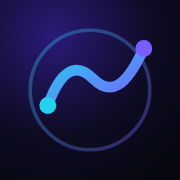
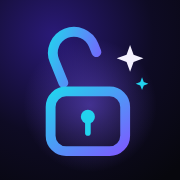
Rebrand to Routini (Routine + Houdini)
- New name in the app, manifest, notifications, Shortcut messages, backups and docs
- New icon: an opened padlock with a sparkle; onboarding logo animates the lock springing open
- Welcome copy: "Ontsnap aan oude patronen", with a Routini wordmark
- Storage and Redis keys keep their old names so existing data stays intact

Claude-Session: https://claude.ai/code/session_01EVvhUygApWAQ1CkjUeEsAW

diff --git a/js/app.js b/js/app.js
@@ -1,4 +1,4 @@
-/* Rewired – main app: onboarding, tabs, views, sheets */
+/* Routini – main app: onboarding, tabs, views, sheets */
 (function () {
   const { $, $$, esc, haptic, toast, confetti, countUp, staggerIn, sheet, fullscreen, fmtDur, relTime, checkIcon } = FX;
   const S = () => Store.s;
@@ -260,7 +260,7 @@
       <header class="page-head" data-anim><div><div class="eyebrow">Jij</div><h1>Profiel</h1></div></header>
       <div class="card" data-anim style="text-align:center;padding:26px 18px">
         <div style="width:84px;height:84px;border-radius:50%;margin:0 auto 12px;background:var(--grad);display:grid;place-items:center;font-family:var(--display);font-size:36px;font-weight:700" data-avatar>${esc((s.name || "R")[0].toUpperCase())}</div>
-        <h2 style="font-size:24px">${esc(s.name || "Rewired")}</h2>
+        <h2 style="font-size:24px">${esc(s.name || "Routini")}</h2>
         <p class="small muted" style="margin-top:4px">Gestart op ${new Date(s.firstStart || s.startDate).toLocaleDateString("nl-NL", { day: "numeric", month: "long", year: "numeric" })}</p>
         <div class="grid3" style="margin-top:18px">
           <div><div style="font-family:var(--display);font-size:22px;font-weight:700">${Store.streakDays()}</div><div class="small muted">Streak</div></div>
@@ -274,7 +274,7 @@
 
       ${!standalone ? `<div class="card" data-anim style="margin-top:12px;border-color:rgba(34,211,238,.4)">
         <div style="font-weight:600">📲 Installeer op je iPhone</div>
-        <p class="small muted" style="margin-top:6px">Open in Safari, tik op <b style="color:#fff">Deel</b> <span style="display:inline-block;vertical-align:-3px">⬆</span> en kies <b style="color:#fff">Zet op beginscherm</b>. Dan werkt Rewired als een echte app, fullscreen en offline.</p>
+        <p class="small muted" style="margin-top:6px">Open in Safari, tik op <b style="color:#fff">Deel</b> <span style="display:inline-block;vertical-align:-3px">⬆</span> en kies <b style="color:#fff">Zet op beginscherm</b>. Dan werkt Routini als een echte app, fullscreen en offline.</p>
       </div>` : ""}
 
       <div class="section-title" data-anim><h3>Meldingen</h3></div>
@@ -304,7 +304,7 @@
         <button class="list-item" style="width:100%;text-align:left" data-action="wipe"><span class="li-ico">🗑</span><span class="li-body"><div class="li-title danger-text">Alles wissen op deze telefoon</div><div class="li-sub">Begin opnieuw${Sync.user ? " · je wordt uitgelogd, cloud-kopie blijft" : ""}</div></span></button>
       </div>
 
-      <p class="small muted" style="text-align:center;margin-top:26px;line-height:1.6">Al je gegevens blijven privé op dit apparaat.<br>Rewired is een zelfhulp-tool en vervangt geen professionele hulp.<br>Hulp nodig? Bel <b>113</b> (0800-0113) bij crisis.</p>
+      <p class="small muted" style="text-align:center;margin-top:26px;line-height:1.6">Al je gegevens blijven privé op dit apparaat.<br>Routini is een zelfhulp-tool en vervangt geen professionele hulp.<br>Hulp nodig? Bel <b>113</b> (0800-0113) bij crisis.</p>
     `;
   }
 
@@ -684,9 +684,9 @@
 
   async function exportData() {
     const json = Store.export();
-    const file = new File([json], `rewired-backup-${Store.dayKey()}.json`, { type: "application/json" });
+    const file = new File([json], `routini-backup-${Store.dayKey()}.json`, { type: "application/json" });
     try {
-      if (navigator.canShare && navigator.canShare({ files: [file] })) { await navigator.share({ files: [file], title: "Rewired back-up" }); return; }
+      if (navigator.canShare && navigator.canShare({ files: [file] })) { await navigator.share({ files: [file], title: "Routini back-up" }); return; }
     } catch (e) { if (e.name === "AbortError") return; }
     const a = document.createElement("a");
     a.href = URL.createObjectURL(file); a.download = file.name; a.click();
@@ -695,7 +695,7 @@
 
   async function shareProgress() {
     const d = Store.streakDays();
-    const text = `Ik ben ${d} ${d === 1 ? "dag" : "dagen"} vrij en mijn brein is ${Store.rewirePct().toFixed(0)}% herbedraad met Rewired. 🧠💪`;
+    const text = `Ik ben ${d} ${d === 1 ? "dag" : "dagen"} vrij en mijn brein is ${Store.rewirePct().toFixed(0)}% herbedraad met Routini. 🧠💪`;
     try { if (navigator.share) { await navigator.share({ text }); return; } } catch { return; }
     try { await navigator.clipboard.writeText(text); toast("Gekopieerd naar klembord"); } catch { toast(text); }
   }
@@ -767,15 +767,19 @@
     const logo = `<svg class="big-logo" viewBox="0 0 120 120" data-logo>
       <defs><linearGradient id="lg" x1="0" y1="0" x2="1" y2="1"><stop offset="0" stop-color="#22d3ee"/><stop offset="1" stop-color="#7c5cff"/></linearGradient></defs>
       <circle cx="60" cy="60" r="54" fill="none" stroke="url(#lg)" stroke-width="3" opacity=".35"/>
-      <path data-path d="M28 70c8-22 18-30 30-18s22 6 34-20" fill="none" stroke="url(#lg)" stroke-width="7" stroke-linecap="round"/>
-      <circle cx="28" cy="70" r="6" fill="#22d3ee"/><circle cx="92" cy="32" r="6" fill="#7c5cff"/>
+      <path data-shackle d="M47 58V43a13 13 0 0 1 26 0v15" fill="none" stroke="url(#lg)" stroke-width="6.5" stroke-linecap="round"/>
+      <rect x="34" y="57" width="52" height="40" rx="11" fill="#0e0b24" stroke="url(#lg)" stroke-width="6.5"/>
+      <circle cx="60" cy="73" r="4.6" fill="#22d3ee"/><path d="M60 76v8" stroke="#22d3ee" stroke-width="3.6" stroke-linecap="round"/>
+      <path data-spark d="M88 22l2.4 6.6 6.6 2.4-6.6 2.4L88 40l-2.4-6.6L79 31l6.6-2.4z" fill="#f4f1ff"/>
+      <path data-spark d="M97 46l1.2 3.3 3.3 1.2-3.3 1.2L97 55l-1.2-3.3-3.3-1.2 3.3-1.2z" fill="#22d3ee"/>
     </svg>`;
 
     const steps = [
       {
         html: () => `<div style="text-align:center;padding-top:30px">${logo}
-          <h1>Herprogrammeer<br><span class="grad-text">je brein.</span></h1>
-          <p class="lead">Gebaseerd op neurowetenschap. Streak tracking, lichttherapie, ademwerk en een dagelijkse dopamine reset. Alles 100% privé op je iPhone.</p>
+          <div class="wordmark">Routini</div>
+          <h1>Ontsnap aan<br><span class="grad-text">oude patronen.</span></h1>
+          <p class="lead">Kom los van wat je niet meer wilt en bouw routines die blijven. Streak, gewoontes met een als-dan-plan, noodmodus, ademwerk en lichttherapie. Alles privé op je iPhone.</p>
           <button class="link" data-have-account style="margin-top:22px;color:var(--accent2);font-weight:600;font-size:15px">Ik heb al een account →</button></div>`,
         btn: "Begin mijn reis",
         mount: () => {
@@ -786,9 +790,19 @@
               gsap.to(el, { opacity: 0, duration: 0.5, onComplete: () => { el.remove(); boot(); } });
             } });
           });
-          const p = $("[data-path]", body), len = p.getTotalLength();
-          gsap.fromTo(p, { strokeDasharray: len, strokeDashoffset: len }, { strokeDashoffset: 0, duration: 1.6, ease: "power2.inOut", delay: 0.3 });
-          gsap.from("[data-logo]", { scale: 0.6, rotation: -20, duration: 1.4, ease: "elastic.out(1,0.6)" });
+          // the escape: the lock appears, then the shackle springs open and a sparkle pops
+          const shackle = $("[data-shackle]", body), sparks = $$("[data-spark]", body);
+          if (FX.calm()) {
+            gsap.set(shackle, { rotation: -22, y: -6, svgOrigin: "47 58" });
+            gsap.from("[data-logo]", { opacity: 0, duration: 0.6 });
+          } else {
+            gsap.timeline()
+              .from("[data-logo]", { scale: 0.6, opacity: 0, duration: 0.9, ease: "back.out(1.8)" })
+              .to(shackle, { y: -6, duration: 0.25, ease: "power2.out", svgOrigin: "47 58" }, "+=0.35")
+              .to(shackle, { rotation: -22, duration: 0.7, ease: "elastic.out(1,0.45)", svgOrigin: "47 58" }, "<0.1")
+              .from(sparks, { scale: 0, rotation: -90, transformOrigin: "50% 50%", duration: 0.6, stagger: 0.12, ease: "back.out(3)" }, "<0.15")
+              .from(".wordmark", { y: 10, opacity: 0, duration: 0.5, ease: "power3.out" }, "<");
+          }
         }
       },
       {
@@ -838,7 +852,7 @@
               ${[["🔥", "Dagelijkse streak & brein-meter"], ["💡", "Lichttherapie bij hoge drang"], ["🌬", "Ademwerk & meditatie"], ["⚡", "Dopamine Reset routine"], ["🚨", "Noodmodus met 1 tik"]].map(([e, t]) => `<div class="row" style="padding:10px 0"><span style="font-size:22px">${e}</span><span style="font-weight:500">${t}</span></div>`).join("")}
             </div></div>`;
         },
-        btn: "Start Rewired",
+        btn: "Start Routini",
         mount: () => {
           gsap.from("[data-date]", { scale: 0.5, opacity: 0, duration: 1, ease: "elastic.out(1,0.6)", delay: 0.3 });
           gsap.from("[data-plan] .row", { x: -30, opacity: 0, stagger: 0.1, delay: 0.6, duration: 0.6, ease: "power3.out" });

diff --git a/api/track.js b/api/track.js
@@ -2,8 +2,8 @@
 
    GET  /api/track?t=<token>&app=instagram   ← called by the Shortcut when the app opens.
         Logs the open and answers with a short text the Shortcut shows as a notification.
-   GET  /api/track?t=<token>                 ← the Rewired app fetches the events (last 15 days).
-   POST /api/track { t, tz, apps, perOpen }  ← the Rewired app stores tz + per-app limits.
+   GET  /api/track?t=<token>                 ← the Routini app fetches the events (last 15 days).
+   POST /api/track { t, tz, apps, perOpen }  ← the Routini app stores tz + per-app limits.
    DELETE /api/track { t }                   ← remove everything for this token.
 
    The token is a long random secret created in the app; it is the only "login" for these endpoints. */
@@ -59,14 +59,14 @@ module.exports = async (req, res) => {
 
     if (req.method !== "GET") return json(res, 405, { error: "method" });
     const t = url.searchParams.get("t");
-    if (!tokOk(t)) return text(res, 401, "Rewired: ongeldige link. Kopieer hem opnieuw uit de app.");
+    if (!tokOk(t)) return text(res, 401, "Routini: ongeldige link. Kopieer hem opnieuw uit de app.");
     const h = hash(t);
     const raw = await redis("GET", "track:cfg:" + h);
-    if (!raw) return text(res, 404, "Rewired: tracking is niet (meer) ingesteld. Open de app.");
+    if (!raw) return text(res, 404, "Routini: tracking is niet (meer) ingesteld. Open de app.");
     const cfg = JSON.parse(raw);
     const app = (url.searchParams.get("app") || "").toLowerCase();
 
-    // The Rewired app pulls its events
+    // The Routini app pulls its events
     if (!app) {
       const since = Date.now() - 15 * DAY;
       const ev = ((await redis("LRANGE", "track:ev:" + h, 0, -1)) || []).map(x => JSON.parse(x)).filter(e => e.ts >= since);
@@ -74,8 +74,8 @@ module.exports = async (req, res) => {
     }
 
     // Called from the Shortcut
-    if (!appOk(app)) return text(res, 400, "Rewired: onbekende app-naam in de link.");
-    if (!(await allow("trk:" + h, 800, 86400))) return text(res, 429, "Rewired: te veel meldingen vandaag.");
+    if (!appOk(app)) return text(res, 400, "Routini: onbekende app-naam in de link.");
+    if (!(await allow("trk:" + h, 800, 86400))) return text(res, 429, "Routini: te veel meldingen vandaag.");
     const now = Date.now();
     await redis("RPUSH", "track:ev:" + h, JSON.stringify({ ts: now, app }));
     await redis("LTRIM", "track:ev:" + h, -KEEP, -1);

diff --git a/js/push.js b/js/push.js
@@ -180,10 +180,10 @@
 
   function cardHtml() {
     const st = status(), p = prefs();
-    if (st === "install") return `<div class="card"><div style="font-weight:600">🔔 Meldingen</div><p class="small muted" style="margin-top:6px">Op de iPhone werken meldingen alleen als Rewired op je <b style="color:#fff">beginscherm</b> staat. Open in Safari → <b style="color:#fff">Deel</b> → <b style="color:#fff">Zet op beginscherm</b>, en open de app daarna via het icoon.</p></div>`;
+    if (st === "install") return `<div class="card"><div style="font-weight:600">🔔 Meldingen</div><p class="small muted" style="margin-top:6px">Op de iPhone werken meldingen alleen als Routini op je <b style="color:#fff">beginscherm</b> staat. Open in Safari → <b style="color:#fff">Deel</b> → <b style="color:#fff">Zet op beginscherm</b>, en open de app daarna via het icoon.</p></div>`;
     if (st === "ios-old") return `<div class="card"><div style="font-weight:600">🔔 Meldingen</div><p class="small muted" style="margin-top:6px">Je iOS-versie ondersteunt geen webmeldingen. Update naar iOS 16.4 of nieuwer.</p></div>`;
     if (st === "unsupported") return `<div class="card"><div style="font-weight:600">🔔 Meldingen</div><p class="small muted" style="margin-top:6px">Deze browser ondersteunt geen pushmeldingen.</p></div>`;
-    if (st === "denied") return `<div class="card"><div style="font-weight:600">🔔 Meldingen geblokkeerd</div><p class="small muted" style="margin-top:6px">Zet ze aan via iPhone <b style="color:#fff">Instellingen → Meldingen → Rewired</b> en kom dan hier terug.</p></div>`;
+    if (st === "denied") return `<div class="card"><div style="font-weight:600">🔔 Meldingen geblokkeerd</div><p class="small muted" style="margin-top:6px">Zet ze aan via iPhone <b style="color:#fff">Instellingen → Meldingen → Routini</b> en kom dan hier terug.</p></div>`;
 
     const on = st === "on";
     return `

diff --git a/js/data.js b/js/data.js
@@ -9,7 +9,7 @@ window.DATA = {
     { d: 14, t: "2 weken", s: "Nieuwe routine", e: "🧠" },
     { d: 30, t: "30 dagen", s: "Een maand vrij", e: "🛡" },
     { d: 60, t: "60 dagen", s: "Diepe verandering", e: "💎" },
-    { d: 90, t: "90 dagen", s: "Rewired", e: "👑" },
+    { d: 90, t: "90 dagen", s: "Ontsnapt", e: "👑" },
     { d: 180, t: "180 dagen", s: "Halfjaar", e: "🚀" },
     { d: 365, t: "1 jaar", s: "Legende", e: "🏆" }
   ],
@@ -51,16 +51,16 @@ window.DATA = {
     ["Wie anderen overwint is sterk. Wie zichzelf overwint is machtig.", "Lao Tzu"],
     ["We lijden vaker in onze verbeelding dan in de werkelijkheid.", "Seneca"],
     ["Een drang is een golf. Je hoeft er niet op te surfen, alleen te wachten tot hij breekt.", "Urge surfing"],
-    ["Je hoeft niet perfect te zijn. Je moet alleen vandaag winnen.", "Rewired"],
+    ["Je hoeft niet perfect te zijn. Je moet alleen vandaag winnen.", "Routini"],
     ["Het brein verandert door wat je herhaalt.", "Neuroplasticiteit"],
     ["Succes is de som van kleine inspanningen, dag in dag uit herhaald.", "Robert Collier"],
     ["De pijn van discipline weegt minder dan de pijn van spijt.", "Jim Rohn"],
     ["Je bent niet je gedachten. Je bent degene die ze opmerkt.", "Mindfulness"],
-    ["Elke keer dat je nee zegt, wordt het pad makkelijker.", "Rewired"],
+    ["Elke keer dat je nee zegt, wordt het pad makkelijker.", "Routini"],
     ["Beheers jezelf, of iets anders zal jou beheersen.", "Stoïcijnse wijsheid"],
     ["Val zeven keer, sta acht keer op.", "Japans spreekwoord"],
     ["Wat je voedt groeit. Wat je verhongert sterft.", "Onbekend"],
-    ["Rust komt niet door de drang te volgen, maar door hem voorbij te laten gaan.", "Rewired"]
+    ["Rust komt niet door de drang te volgen, maar door hem voorbij te laten gaan.", "Routini"]
   ],
 
   lightModes: [

diff --git a/js/lessons2.js b/js/lessons2.js
@@ -160,7 +160,7 @@
 
     L("env-phone", "Omgeving", 3, "Maak je telefoon saai",
       `<p>Je telefoon is ontworpen om je aandacht vast te houden. Een paar instellingen maken hem een stuk minder verslavend:</p>
-<ul><li><b>Grijstinten</b> (Instellingen → Toegankelijkheid → Weergave → Kleurfilters): kleurloze apps zijn minder aantrekkelijk</li><li><b>Meldingen uit</b> voor alles behalve mensen</li><li><b>Beginscherm leeg:</b> alleen tools (kaart, agenda, Rewired), social media in een map op de laatste pagina</li><li><b>Focus-modus</b> 's avonds en tijdens werk</li><li><b>Uitloggen</b> na elk gebruik van social media</li></ul>`,
+<ul><li><b>Grijstinten</b> (Instellingen → Toegankelijkheid → Weergave → Kleurfilters): kleurloze apps zijn minder aantrekkelijk</li><li><b>Meldingen uit</b> voor alles behalve mensen</li><li><b>Beginscherm leeg:</b> alleen tools (kaart, agenda, Routini), social media in een map op de laatste pagina</li><li><b>Focus-modus</b> 's avonds en tijdens werk</li><li><b>Uitloggen</b> na elk gebruik van social media</li></ul>`,
       "Een saaie telefoon trekt minder. Kleur, meldingen en gemak zijn haakjes.",
       "Zet vandaag grijstinten aan en verplaats social media naar de laatste pagina.",
       Q("Welke instelling maakt apps direct minder aantrekkelijk?", ["Helderheid omhoog", "Grijstinten", "Geluid aan"], 1, "Kleur is een belangrijk haakje in app-ontwerp.")),

diff --git a/api/_lib.js b/api/_lib.js
@@ -50,7 +50,7 @@ function config() {
   if (!process.env.VAPID_PRIVATE_KEY) missing.push("VAPID_PRIVATE_KEY");
   if (!missing.length) {
     webpush.setVapidDetails(
-      process.env.VAPID_SUBJECT || "mailto:rewired@example.com",
+      process.env.VAPID_SUBJECT || "mailto:routini@example.com",
       process.env.VAPID_PUBLIC_KEY,
       process.env.VAPID_PRIVATE_KEY
     );
@@ -153,7 +153,7 @@ function message(id, rec, now = Date.now(), slotDay = null) {
       url: "./?open=home", tag: "night"
     };
   }
-  return { title: "Rewired", body: "Test gelukt! Je meldingen werken. 💪", url: "./", tag: "test" };
+  return { title: "Routini", body: "Test gelukt! Je meldingen werken. 💪", url: "./", tag: "test" };
 }
 
 async function send(rec, payload) {
@@ -219,7 +219,7 @@ async function report(e, route) {
   try {
     await fetch(t.url, {
       method: "POST", body, signal: AbortSignal.timeout(2000),
-      headers: { "Content-Type": "application/x-sentry-envelope", "X-Sentry-Auth": `Sentry sentry_version=7, sentry_key=${t.key}, sentry_client=rewired-api/1.0` }
+      headers: { "Content-Type": "application/x-sentry-envelope", "X-Sentry-Auth": `Sentry sentry_version=7, sentry_key=${t.key}, sentry_client=routini-api/1.0` }
     });
   } catch {}
 }

diff --git a/index.html b/index.html
@@ -3,13 +3,13 @@
 <head>
   <meta charset="utf-8">
   <meta name="viewport" content="width=device-width, initial-scale=1, maximum-scale=1, viewport-fit=cover">
-  <title>Rewired</title>
-  <meta name="description" content="Herprogrammeer je brein. Streak tracker, lichttherapie, ademhaling, meditatie en dopamine reset.">
+  <title>Routini</title>
+  <meta name="description" content="Routini: ontsnap aan oude patronen en bouw routines die blijven. Streak, gewoontes met als-dan-plan, noodmodus, ademhaling en lichttherapie.">
   <meta name="theme-color" content="#07070d">
   <meta name="apple-mobile-web-app-capable" content="yes">
   <meta name="mobile-web-app-capable" content="yes">
   <meta name="apple-mobile-web-app-status-bar-style" content="black-translucent">
-  <meta name="apple-mobile-web-app-title" content="Rewired">
+  <meta name="apple-mobile-web-app-title" content="Routini">
   <meta name="format-detection" content="telephone=no">
   <link rel="manifest" href="manifest.webmanifest">
   <link rel="icon" type="image/svg+xml" href="icons/icon.svg">

diff --git a/js/monitor.js b/js/monitor.js
@@ -3,7 +3,7 @@
    Only the error type, a scrubbed message, the stack (script file names + line numbers), app version and
    browser are sent: never journal text, names, habits or anything else from Store. At most 5 per session. */
 (function () {
-  const VERSION = "rewired-v13";
+  const VERSION = "routini-v14";
   let target = null, sent = 0;
   const on = () => !!(target && window.Store && Store.s.settings && Store.s.settings.errors === true);
 
@@ -11,7 +11,7 @@
     try {
       const u = new URL(dsn), project = u.pathname.replace(/\//g, "");
       if (!u.username || !/^\d+$/.test(project)) return null;
-      return { url: `${u.protocol}//${u.host}/api/${project}/envelope/?sentry_key=${u.username}&sentry_version=7&sentry_client=rewired-web/1.0`, dsn: `${u.protocol}//${u.username}@${u.host}/${project}` };
+      return { url: `${u.protocol}//${u.host}/api/${project}/envelope/?sentry_key=${u.username}&sentry_version=7&sentry_client=routini-web/1.0`, dsn: `${u.protocol}//${u.username}@${u.host}/${project}` };
     } catch { return null; }
   }
 

diff --git a/sw.js b/sw.js
@@ -1,5 +1,5 @@
 /* Offline support: cache the app shell, GSAP and fonts */
-const VERSION = "rewired-v13";
+const VERSION = "routini-v14";
 const SHELL = [
   "./",
   "index.html",
@@ -79,14 +79,14 @@ self.addEventListener("fetch", e => {
 self.addEventListener("push", e => {
   let data = {};
   try { data = e.data ? e.data.json() : {}; } catch { data = { body: e.data && e.data.text() }; }
-  const title = data.title || "Rewired";
+  const title = data.title || "Routini";
   e.waitUntil(Promise.all([
     self.clients.matchAll({ type: "window" }).then(list => list.forEach(c => c.postMessage({ type: "push", title, body: data.body || "" }))),
     self.registration.showNotification(title, {
       body: data.body || "",
       icon: "icons/icon-192.png",
       badge: "icons/icon-192.png",
-      tag: data.tag || "rewired",
+      tag: data.tag || "routini",
       data: { url: data.url || "./" }
     }),
     self.navigator && self.navigator.setAppBadge ? self.navigator.setAppBadge(1).catch(() => {}) : null

diff --git a/js/apptrack.js b/js/apptrack.js
@@ -189,7 +189,7 @@
         <button class="small danger-text" data-stop style="margin-top:14px">Stoppen met app-tracking</button>` : `<p class="small muted" style="margin-top:14px">Kies hierboven minstens één app.</p>`}`;
     };
     sheet(`<h2>App-tracking</h2>
-      <p class="sub">Met iOS Opdrachten telt Rewired elke keer dat je een app opent. Je krijgt direct een melding ("6e keer vandaag, waarom open je het nu?") en ziet hier hoeveel je ze gebruikt.</p>
+      <p class="sub">Met iOS Opdrachten telt Routini elke keer dat je een app opent. Je krijgt direct een melding ("6e keer vandaag, waarom open je het nu?") en ziet hier hoeveel je ze gebruikt.</p>
       <div data-body>${draw()}</div>`, {
       onClose() { pushConfig(); if (window.App) App.refresh(false); },
       onMount(sh) {

diff --git a/css/style.css b/css/style.css
@@ -534,3 +534,6 @@ input[type=range]::-webkit-slider-thumb { -webkit-appearance: none; width: 28px;
 .refl { display: grid; gap: 4px; font-size: 14px; line-height: 1.45; }
 .refl + .refl { border-top: 1px solid var(--border); margin-top: 12px; padding-top: 12px; }
 .refl b { color: var(--muted); font-weight: 600; }
+
+/* Brand */
+.wordmark { font-family: var(--display); font-weight: 700; font-size: 15px; letter-spacing: .32em; text-transform: uppercase; margin: 6px 0 10px; background: var(--grad); -webkit-background-clip: text; background-clip: text; color: transparent; }

diff --git a/tests/e2e/monitor.spec.js b/tests/e2e/monitor.spec.js
@@ -27,5 +27,5 @@ test("error reporting is opt-in and scrubbed", async ({ page }) => {
   expect(ev.exception.values[0]).toMatchObject({ type: "TypeError", value: 'kon "…" niet lezen' });
   expect(r.postData()).not.toContain("geheime");
   expect(r.postData()).not.toContain("Michel");
-  expect(ev.release).toMatch(/^rewired-v\d+$/);
+  expect(ev.release).toMatch(/^routini-v\d+$/);
 });
